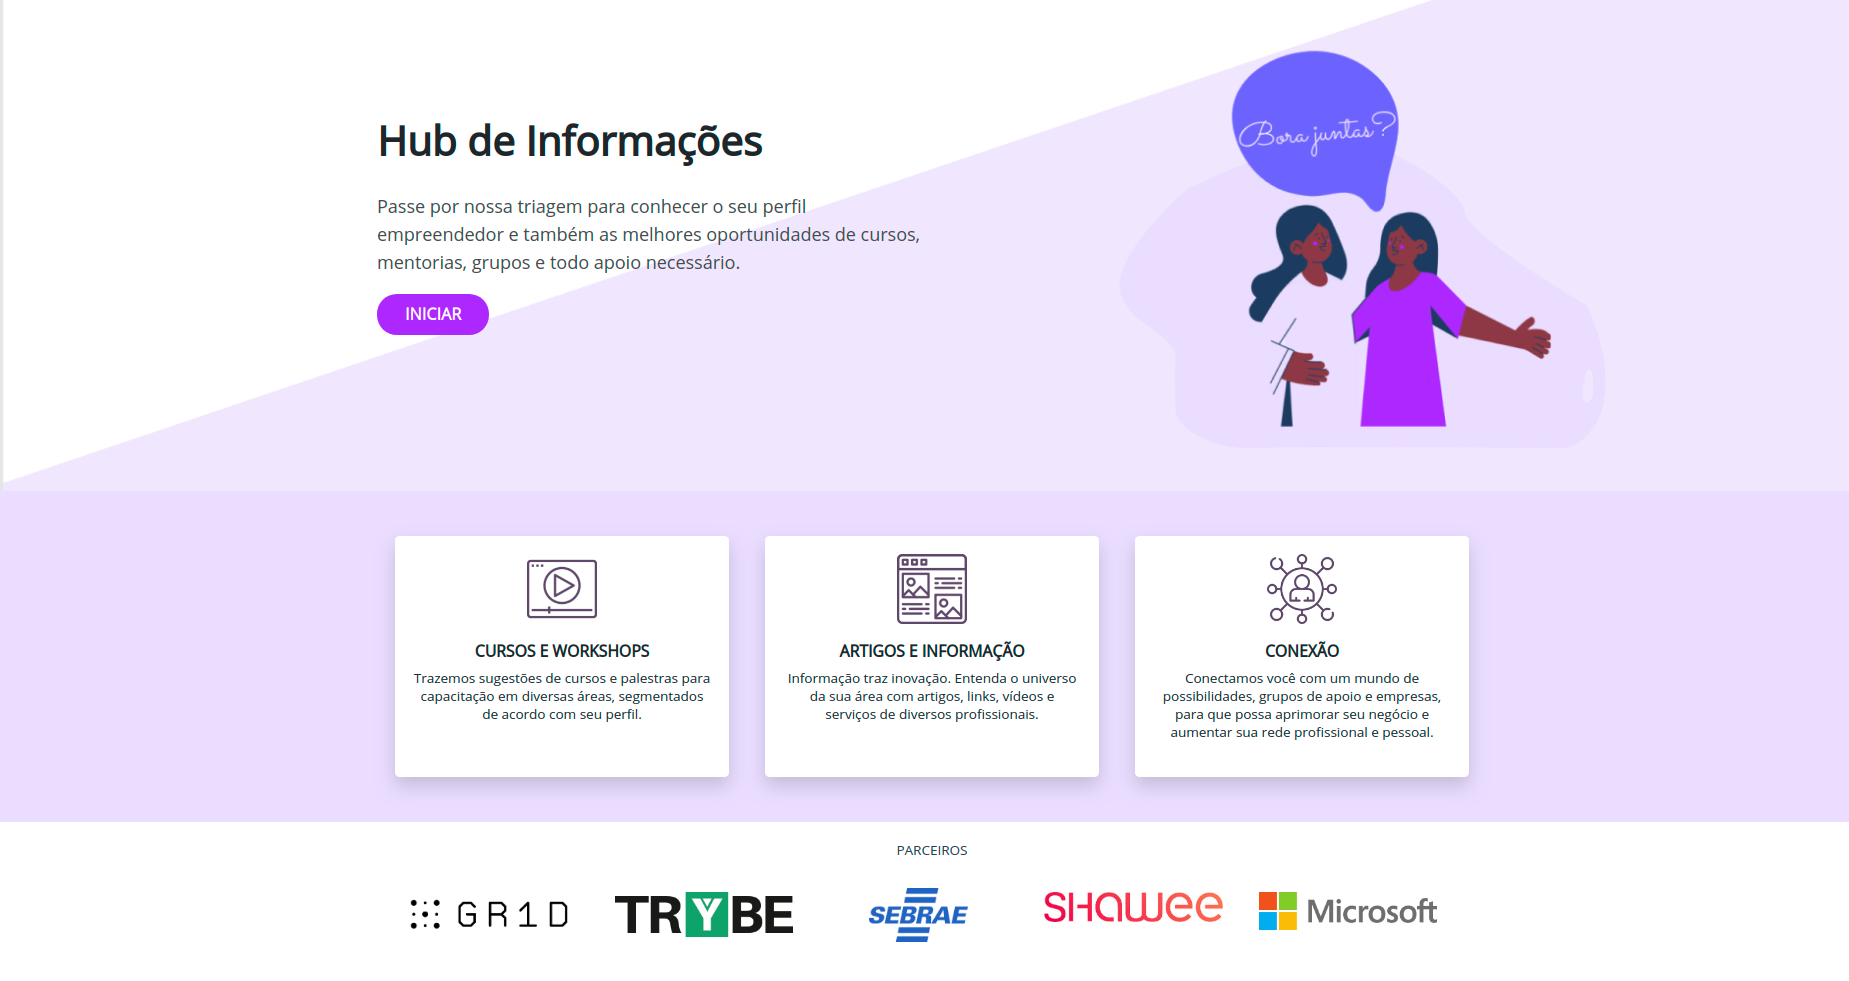
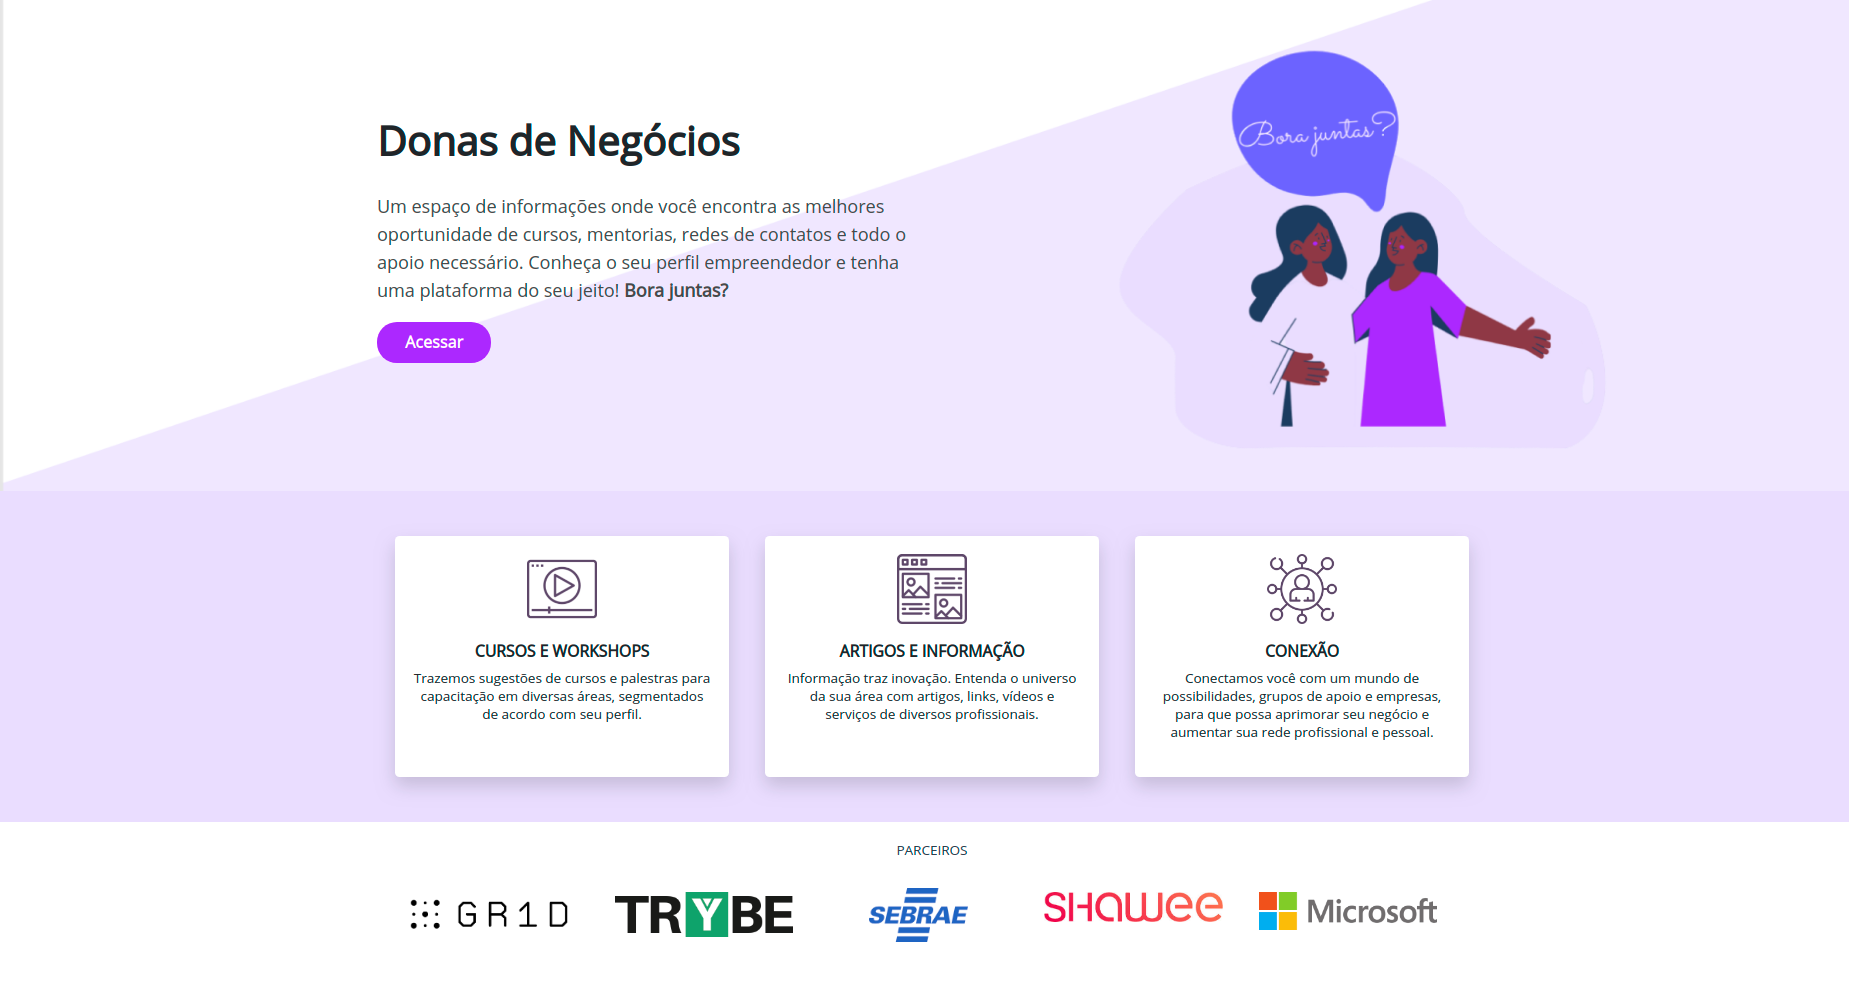
-- Dados viacep tratados

Changed region(s): [[0.185, 0.1223, 0.4932, 0.367]]

diff --git a/public/js/app.js b/public/js/app.js
@@ -49587,15 +49587,17 @@ new Vue({
           break;
 
         case 2:
-          axios.get('/api/location').then(function (response) {
-            var json = response.data;
-            self.session.location = json;
-            self.nextStep();
+          var cep = self.session.in_cep.replace(/-/, '');
+          axios.get('/api/location/' + cep).then(function(response){
+              var json = response.data;
+              self.session.location = json;
+              self.nextStep();
           });
           break;
 
         case 4:
-          axios.get('/api/company').then(function (response) {
+          var cnpj = self.session.in_cnpj.replace(/[\.\/\-]/g, '');
+          axios.get('/api/company/' + cnpj).then(function (response) {
             var json = response.data;
             self.session.business = json;
             self.nextStep();

diff --git a/resources/js/app.js b/resources/js/app.js
@@ -52,11 +52,13 @@ new Vue({
                     });
                     break;
                 case 2:
-                    axios.get('/api/location').then(function(response){
-                        var json = response.data;
-                        self.session.location = json;
-                        self.nextStep();
-                    });
+                    var cep = self.session.in_cep;
+                    console.log(cep);
+                    // axios.get('/api/location/' + cep).then(function(response){
+                    //     var json = response.data;
+                    //     self.session.location = json;
+                    //     self.nextStep();
+                    // });
                     break;
                 case 4:
                     axios.get('/api/company').then(function(response){

diff --git a/app/Http/Controllers/Webservice/ViaCep.php b/app/Http/Controllers/Webservice/ViaCep.php
@@ -5,6 +5,7 @@ namespace App\Http\Controllers\Webservice;
 use App\Http\Controllers\Controller;
 use Illuminate\Http\Request;
 use App\Model\Endereco;
+use Illuminate\Support\Facades\Http;
 
 class ViaCep extends Controller
 {
@@ -15,32 +16,31 @@ class ViaCep extends Controller
      * Armazenando os dados no banco de dados
      * Retorna o objeto
      */
-    public function getData($cep)
+    public function search($cep)
     {
 
-        $endreco = Endereco::where('cep', $cep)->first();
+        $endereco = Endereco::where('cep', $cep)->first();
 
-        if(!$endreco){
+        if(!$endereco){
             // url 
             $url = sprintf(self::ENDPOINT, $cep);
 
 
             //curl
-            $response = Curl::to($url)
-            ->asJson()
-            ->get();
+            $request = Http::get($url);
+            $response = $request->json();
 
             // dados
-            $cep = $response->cep;
-            $logradouro = $response->logradouro;
-            $bairro = $response->bairro;
-            $cidade = $response->localidade;
-            $uf = $response->uf;
+            $cep = str_replace(['-', '/'], null, $response['cep']);
+            $logradouro = $response['logradouro'];
+            $bairro = $response['bairro'];
+            $cidade = $response['localidade'];
+            $uf = $response['uf'];
 
             // model
-            $endreco = Endereco::create([
+            $endereco = Endereco::create([
                'cep' => $cep,
-               'logradouro' => $response->logradouro,
+               'logradouro' => $logradouro,
                'bairro' => $bairro,
                'cidade' => $cidade,
                'uf' => $uf 
@@ -48,6 +48,6 @@ class ViaCep extends Controller
             
         }
         
-        return $endreco;
+        return $endereco;
     }
 }

diff --git a/resources/views/app.blade.php b/resources/views/app.blade.php
@@ -21,8 +21,8 @@
                 <div class="container flex">
                     <div id="top_bg"></div>
                     <div class="mt-20 w-2/4">
-                        <h1 class="font-bold my-4">Hub de Informações</h1>
-                        <p style="color: #494949">Passe por nossa triagem para conhecer o seu perfil empreendedor e também as melhores oportunidades de cursos, mentorias, grupos e todo apoio necessário.</p>
+                        <h1 class="font-bold my-4">Donas de Negócios</h1>
+                        <p style="color: #494949">Um espaço de informações onde você encontra as melhores oportunidade de cursos, mentorias, redes de contatos e todo o apoio necessário. Conheça o seu perfil empreendedor e tenha uma plataforma do seu jeito! <b>Bora juntas?</b></p>
                         <button class="btn text-white font-bold px-4" style="border-radius: 20px; background-color: #AC28FF" v-on:click="openQuestions()"><b>Acessar</b></button>
                     </div>
                 </div>
@@ -85,7 +85,7 @@
                                 <li class="mt-2 p-2 text-gray-700">Cursos <span class="badge badge-info float-right mr-5 text-white py-1 px-2" style="border-radius: 50%">2</span></li>
                                 <li class="mt-2 p-2 text-gray-700">Mentorias</li>
                                 <li class="mt-2 p-2 text-gray-700">Aplicativos</li>
-                                <li class="mt-2 p-2 text-gray-700">Grupos</li>
+                                <li class="mt-2 p-2 text-gray-700">Rede de Contatos</li>
                             </ul>
                         </div>
                         <div class="w-auto">

diff --git a/routes/api.php b/routes/api.php
@@ -2,6 +2,7 @@
 
 use Illuminate\Http\Request;
 use Illuminate\Support\Facades\Route;
+use App\Http\Controllers\Webservice\ViaCep;
 
 /*
 |--------------------------------------------------------------------------
@@ -14,9 +15,10 @@ use Illuminate\Support\Facades\Route;
 |
 */
 
-Route::get('/people', function () {
+# API Gr1d
+Route::get('/people', function ($cpf) {
     $data = [
-        'cpf' => '47538899049',
+        'cpf' => $cpf,
         'name' => 'Regiane Alves Leite',
         'gender' => 'F',
         'age' => 53
@@ -25,23 +27,29 @@ Route::get('/people', function () {
     return response()->json($data);
 });
 
-Route::get('/company', function () {
+# API ReceitaWS
+Route::get('/company/{cnpj}', function ($cnpj) {
     $data = [
-        'cnpj' => '06990590000123',
+        'cnpj' => $cnpj,
         'name' => 'GOOGLE BRASIL INTERNET LTDA'
     ];
 
     return response()->json($data);
 });
 
-Route::get('/location', function () {
+# API ViaCEP
+Route::get('/location/{cep}', function ($cep) {
+    $ws = new ViaCep;
+    $result = $ws->search($cep);
+
     $data = [
-        'cep' => '29164510',
-        'address' => 'Rua Gilseppi Verdi',
-        'burgh' => 'Praia de Carapebus',
-        'city' => 'Serra',
-        'uf' => 'ES'
+        'cep' => $result->cep,
+        'address' => $result->logradouro,
+        'burgh' => $result->bairro,
+        'city' => $result->cidade,
+        'uf' => $result->uf
     ];
+
 
     return response()->json($data);
 });

diff --git a/app/Model/Endereco.php b/app/Model/Endereco.php
@@ -15,6 +15,10 @@ class Endereco extends Model
     # Colunas para atribuicão
     
     protected $fillable = [
-        
+        'cep',
+        'logradouro',
+        'bairro',
+        'cidade',
+        'uf'
     ];
 }
